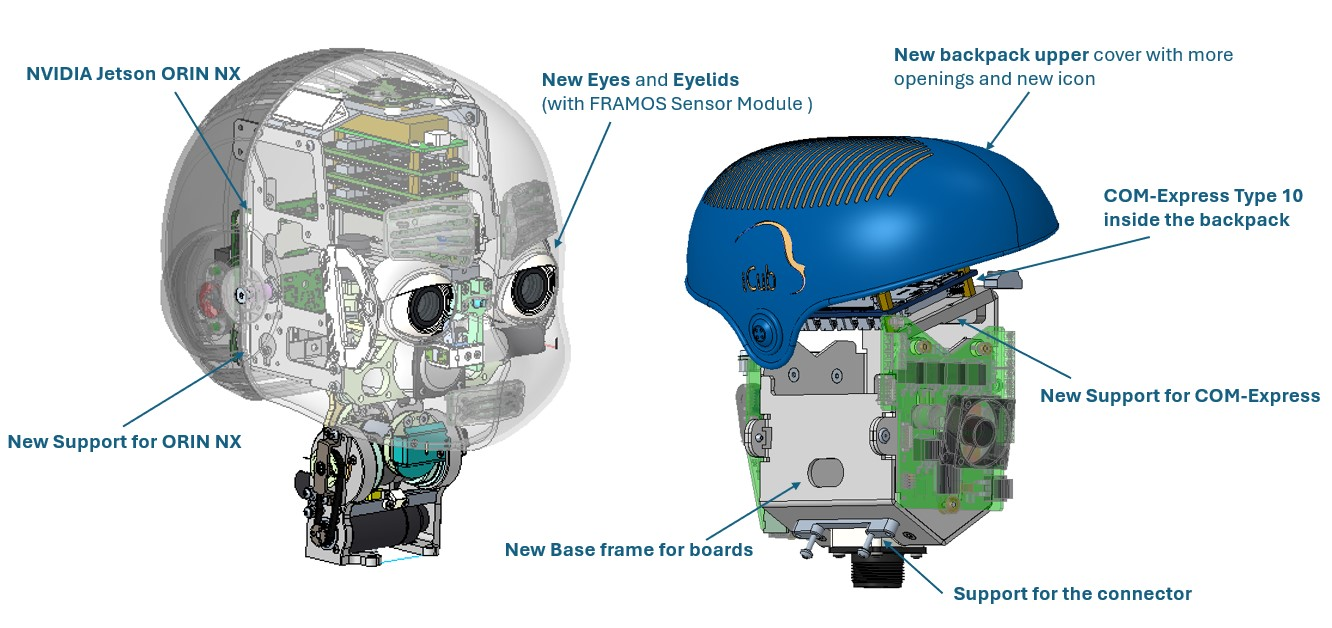
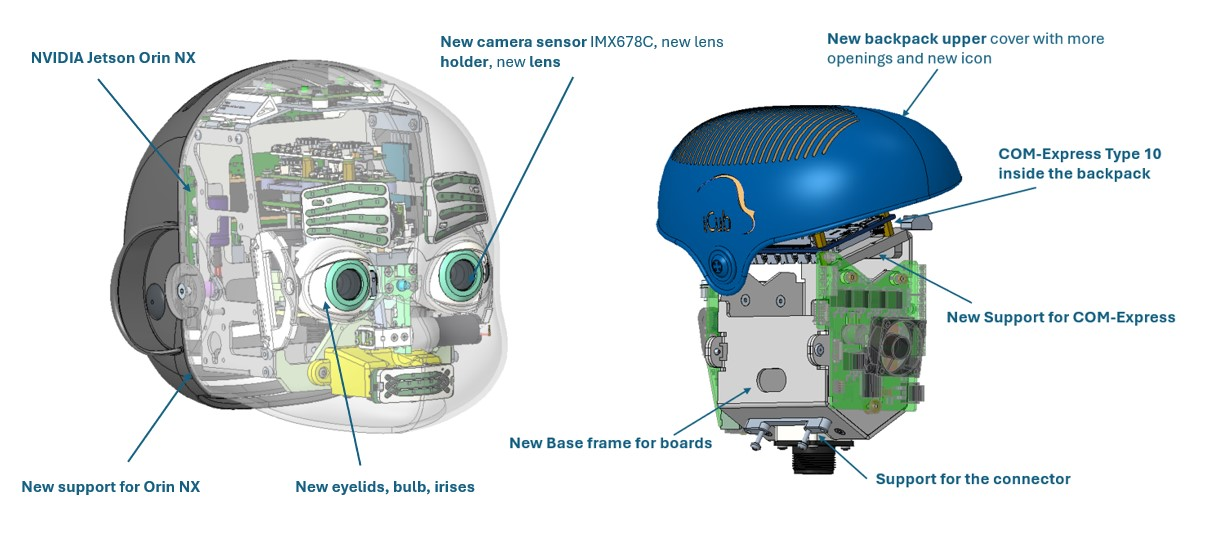
Updating mkit 009 with the changes of camera assembly (#409)

diff --git a/docs/upgrade_kits/head_4k/support.md b/docs/upgrade_kits/head_4k/support.md
@@ -20,7 +20,7 @@ This upgrade kit is meant to update the head with new eyes composed by high-reso
 
 |  #  |     Code   |   Alias  |  Rev | UM |  Qty  |  Description |
 |   :---: |   :---: |   :---: |   :---: |   :---: |   :---: |   :---: |
-| 1 |  18476  | MKIT_009 |   | Pieces  |  1  | iCub eyes Mk4 |
+| 1 |  18476  | MKIT_009 | A2  | Pieces  |  1  | iCub eyes Mk4 |
 |  2  | 17018 |		WKIT_009	 |	 	| Pieces	| 1	| iCub2.x, Basler cameras, GPU, and COM Express Type 10 (wiring) |
 |  3  | 16519 |		EKIT_009	 |	 	| Pieces	| 1	| iCub2.x, Basler cameras, GPU, and COM Express Type 10 (electronics) |
 
@@ -46,11 +46,12 @@ This upgrade kit is meant to update the head with new eyes composed by high-reso
 | M2_5X06-6LOBE-ISO14583-A2-70   | M2_5 x  6, ISO14583, 6LOBE socket pan head machine screw, fully threaded, A2-70  | 15993 |     | 8   |
 | M2_5X08-6LOBE-ISO14583-A2-70   | M2_5 x  6, ISO14583, 6LOBE socket pan head machine screw, fully threaded, A2-70  | 15994 |     | 6   |
 | M3X06-6LOBE-ISO14583-A2-70     | M3 x  6, ISO14583, 6LOBE socket pan head machine screw, fully threaded, A2-70    | 16022 |     | 4   |
-| IC_034_G_007                   | Eye bulb with inserts                                                            | 18375 | A1  | 2   |
+| M2X06-6LOBE-ISO14583-A2-70     | M2 x  6, ISO14583, 6LOBE socket pan head machine screw, fully threaded, A2-70    | 15853 |     | 8   |
+| IC_034_G_007                   | Eye bulb with inserts                                                            | 18375 | A2  | 2   |
 | IC_034_G_025                   | Orin NX support with inserts                                                     | 18384 | A1  | 1   |
 | IC_034_M_020                   | V2 eye tilt brace A                                                              | 18385 | A1  | 1   |
 | IC_034_P_017                   | Eye pan frame with protrusion                                                    | 18386 | 0   | 2   |
-| IC_034_P_039                   | Eye CCD mounting plate                                                           | 18581 | 0   | 2   |
+| IC_034_P_039                   | Eye CCD mounting plate                                                           | 18581 | A1   | 2   |
 | IC_034_P_020                   | Eye tilt brace A                                                                 | 18388 | A1  | 1   |
 | IC_034_P_021                   | Eyelid reinforcement                                                             | 18389 | 0   | 1   |
 | IC_034_P_022                   | Eyelid upper                                                                     | 18390 | A1  | 1   |
@@ -61,7 +62,6 @@ This upgrade kit is meant to update the head with new eyes composed by high-reso
 | IC_034_G_031                   | Support for connector with inserts                                               | 18402 | 0   | 1   |
 | IC_034_G_034                   | Cover backpack assy                                                              | 18405 | 0   | 1   |
 | IC_034_P_034                   | V2 head eyes tilt frame                                                          | 18475 | 0   | 1   |
-| IC_034_P_036                   | eye iris                                                                         | 18479 | A1  | 2   |
 | RC_IIT_025_P_130               | Hinge for backpack                                                               | 13615 | A3  | 1   |
 
 ## Content material  WKIT_009
